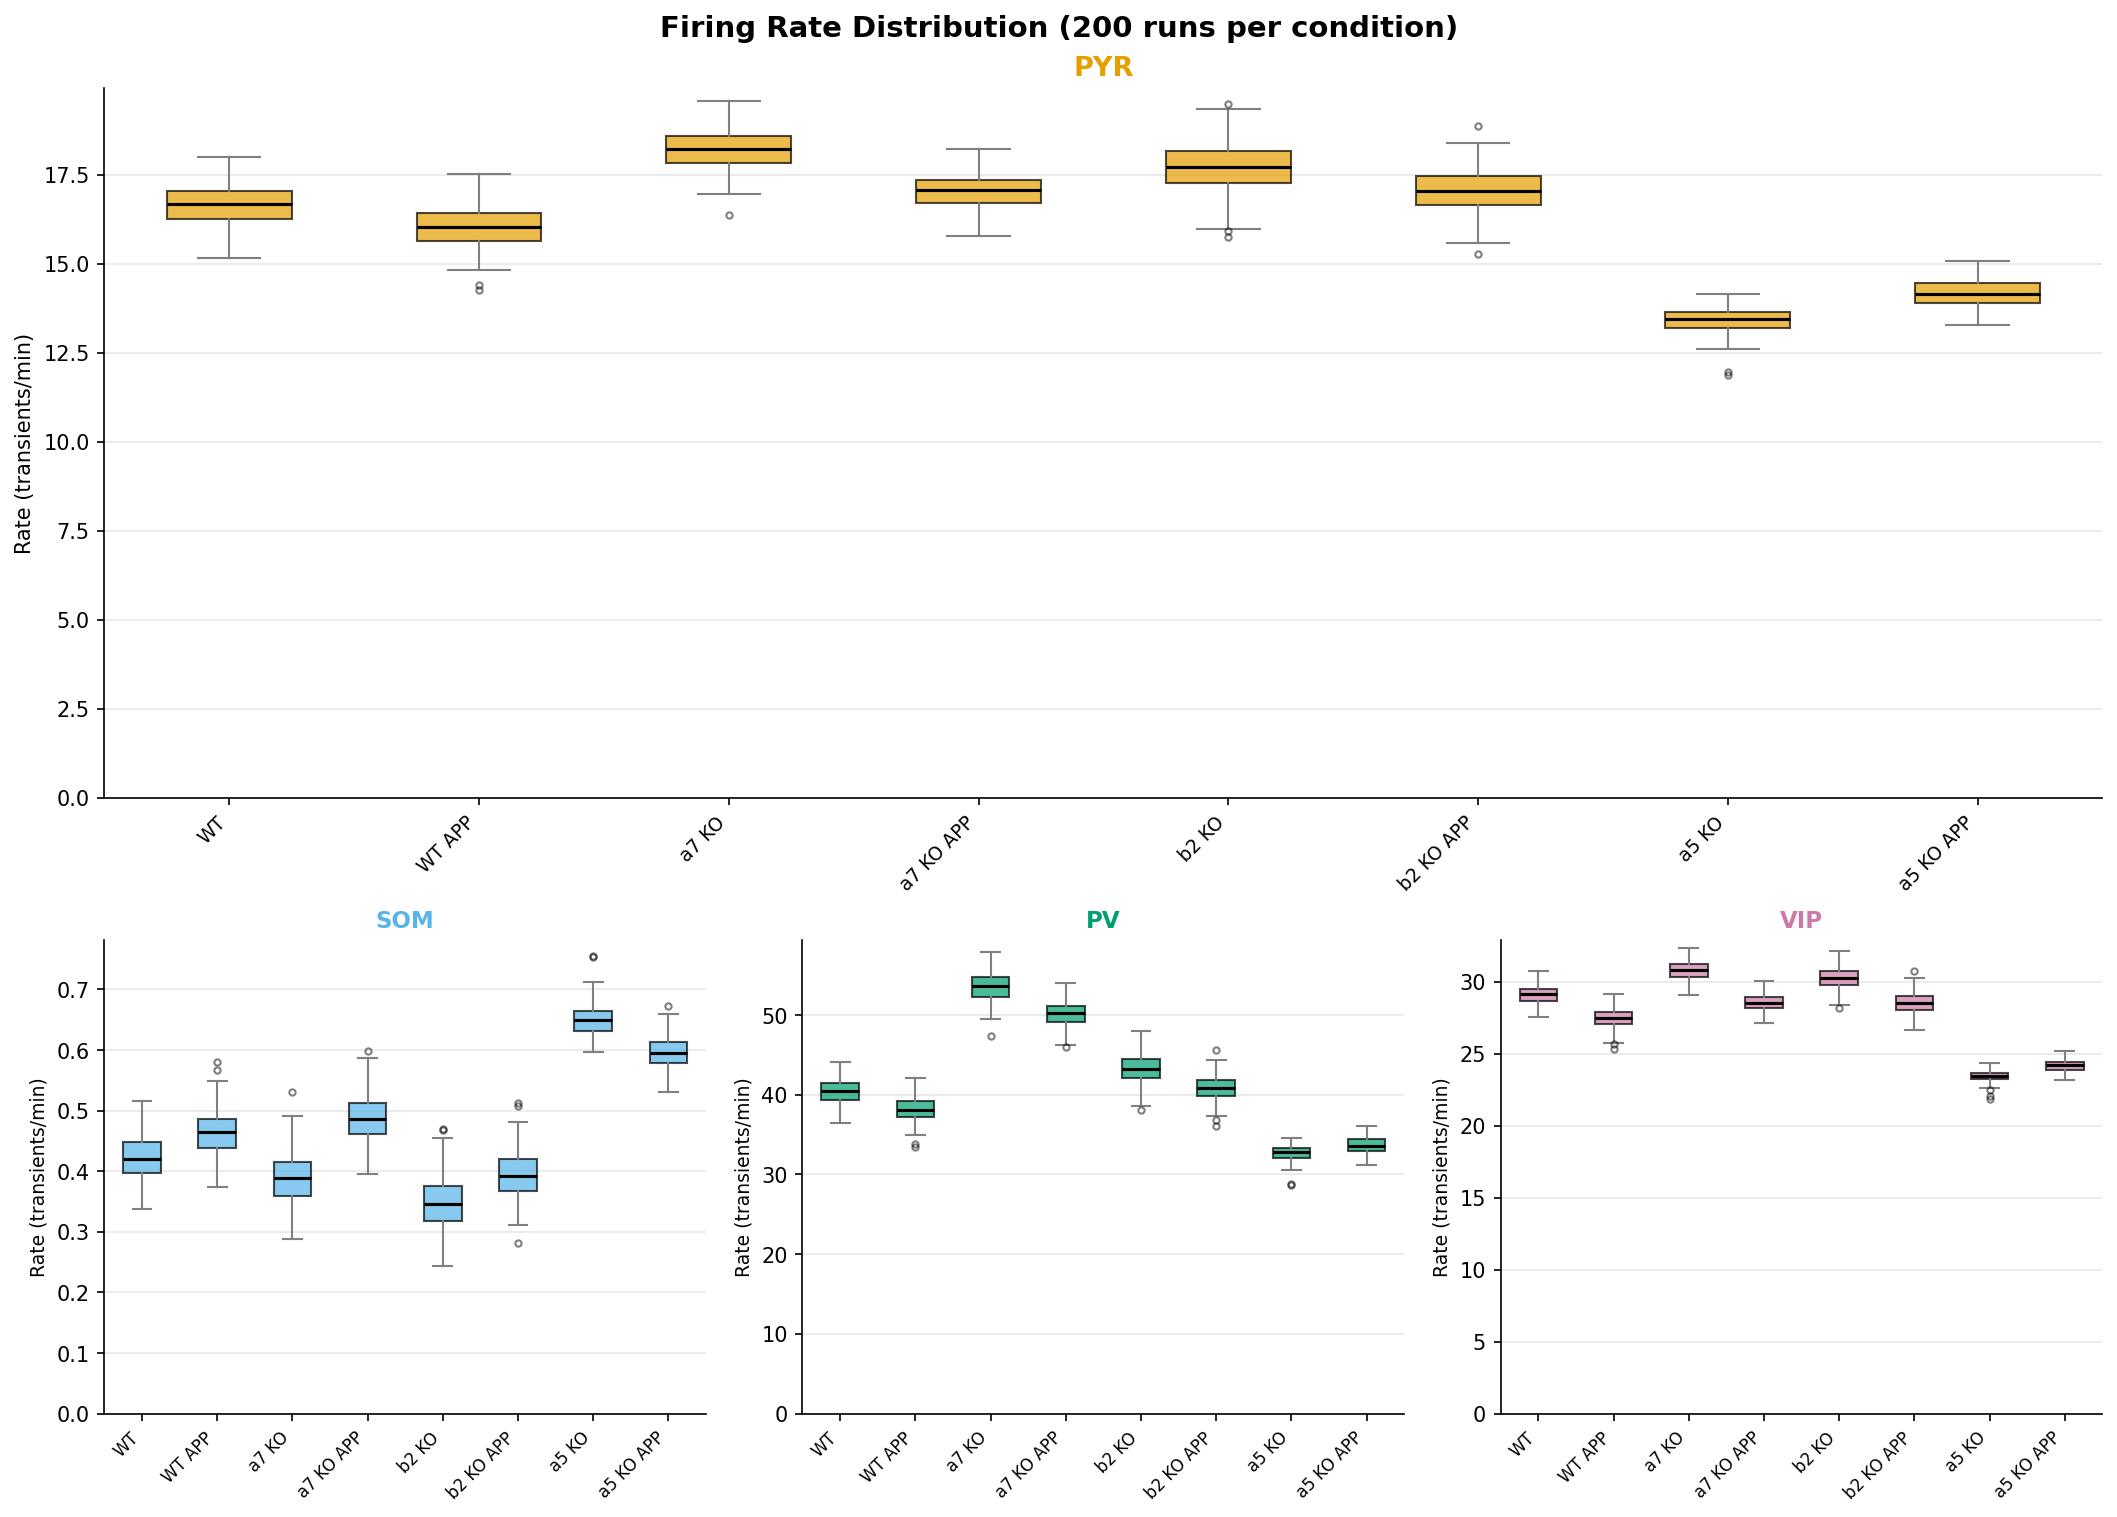
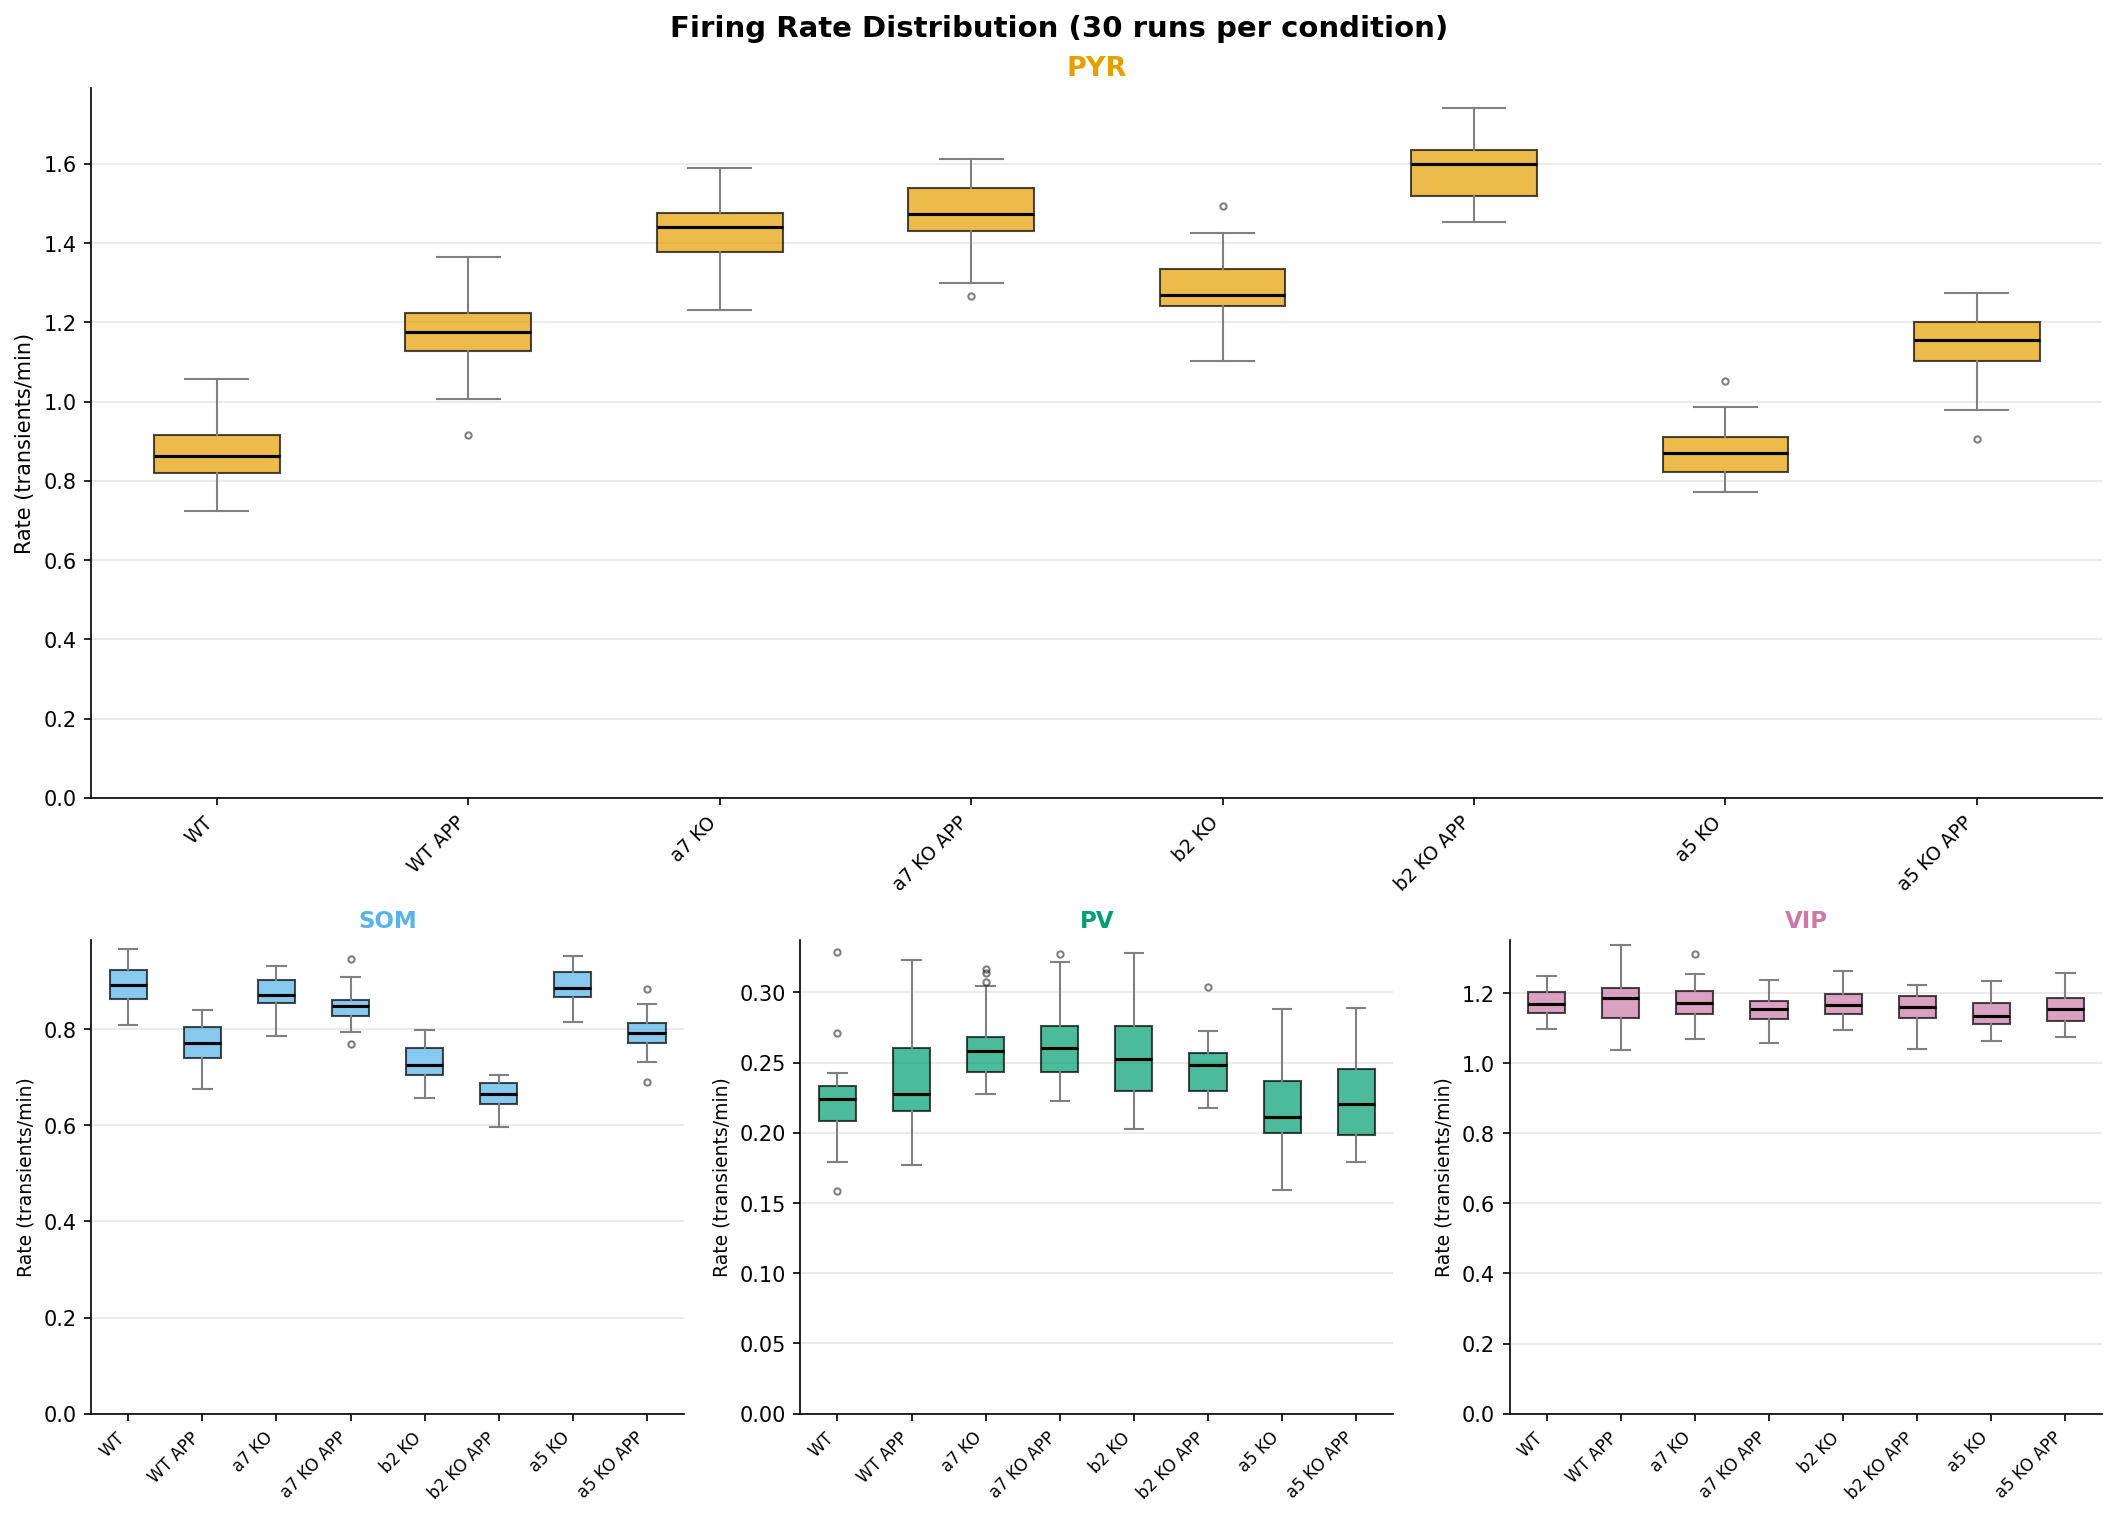
Small changes

diff --git a/circuit_model/cli.py b/circuit_model/cli.py
@@ -340,7 +340,7 @@ Examples:
   python -m circuit_model run --params_json my_params.json --T_ms 5000
 
   # Run with noise
-  python -m circuit_model run --noise_type ou --tau_noise_ms 10
+  python -m circuit_model run --noise_type ou
 
   # Optimize parameters to match target rates
   python -m circuit_model optimize --target_pyr 5 --target_som 10 --target_pv 15 --target_vip 8

diff --git a/circuit_model/study.py b/circuit_model/study.py
@@ -231,6 +231,7 @@ def _run_single_sim(seed: int) -> np.ndarray:
         seed=seed,
         noise_type=cfg.noise_type,
         tau_noise_ms=cfg.tau_noise_ms,
+        use_transient=False,
     )
     return mean_rates(result, burn_in_ms=cfg.burn_in_ms, window_ms=cfg.window_ms)
 